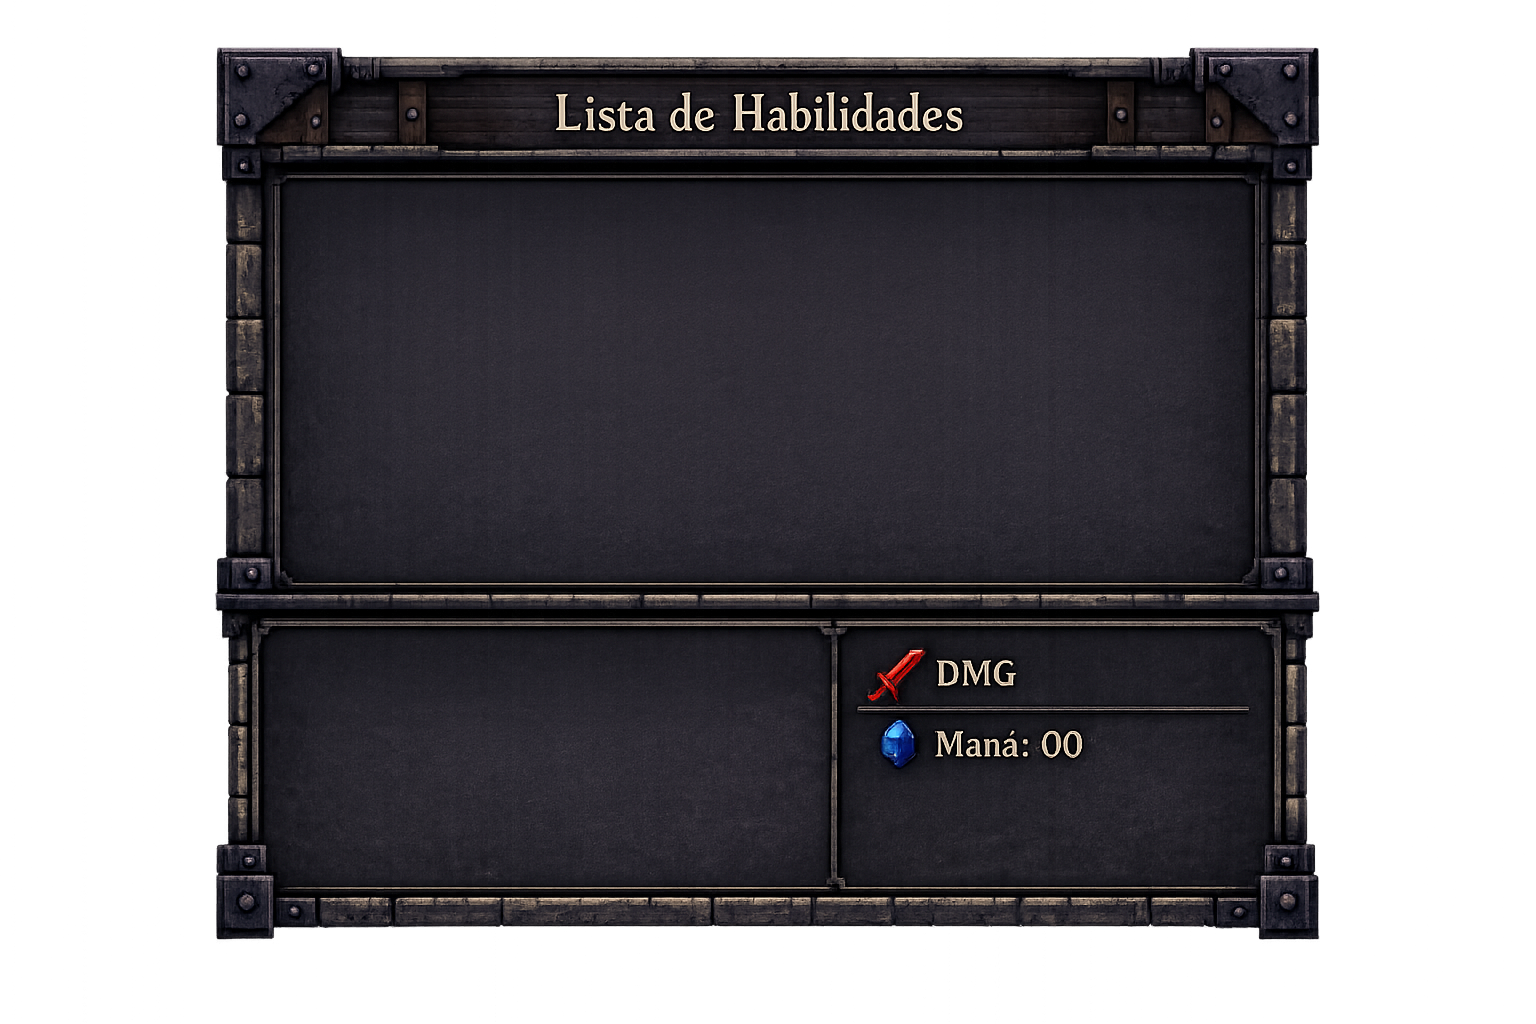
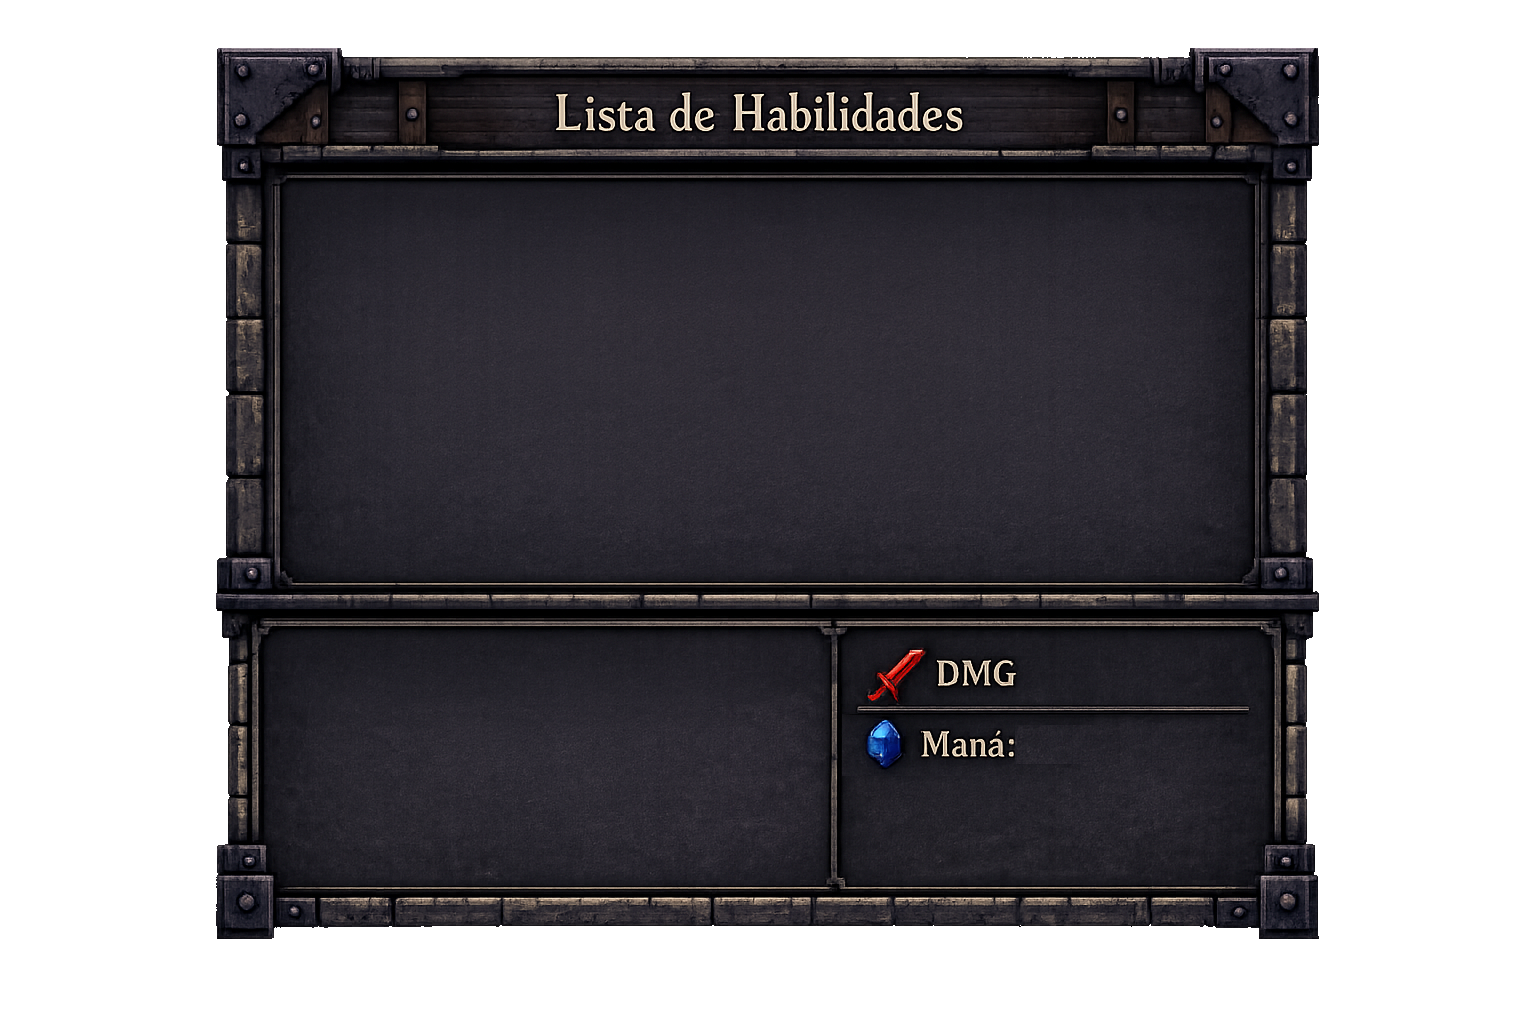
Combate
se agregó:

indicadores de vida y mana(heroe y enemigo), indicadores del daño y coste de mana de una habilidad.

En la Vista de xp obtenida se muestra el nivel superado

Changed region(s): [[0.5625, 0.6875, 0.7188, 0.75]]

diff --git a/core/src/main/java/com/mortaTower/Vista/CombateVista.java b/core/src/main/java/com/mortaTower/Vista/CombateVista.java
@@ -61,9 +61,13 @@ public class CombateVista {
     private Texture categoriasTex;
     private Texture habilidadTex;
     private Label lblDescripcion;
+    private Label lblDanio, lblMana;
+
+    private Label lblVidaHeroe, lblVidaEnemy;
+private Label  lblManaHeroe, lblManaEnemy;
 
     // Render
-    private BitmapFont font;
+    private BitmapFont font, fontStats;
     private ShapeRenderer sr;
 
     // Animaciones
@@ -120,11 +124,40 @@ public class CombateVista {
         font.getData().setScale(1.5f);
         font.setColor(Color.WHITE);
 
+        fontStats = new BitmapFont();
+        fontStats.getData().setScale(1.0f);
+        fontStats.setColor(Color.WHITE);
+
+        lblVidaHeroe = new Label("", new Label.LabelStyle(fontStats, Color.WHITE));
+        lblVidaHeroe.setAlignment(Align.center);
+        lblVidaHeroe.setPosition(105, 140);
+
+        lblManaHeroe = new Label("", new Label.LabelStyle(fontStats, Color.WHITE));
+        lblManaHeroe.setAlignment(Align.center);
+        lblManaHeroe.setPosition(105, 115);
+
+        lblVidaEnemy = new Label("", new Label.LabelStyle(fontStats, Color.WHITE));
+        lblVidaEnemy.setAlignment(Align.center);
+        lblVidaEnemy.setPosition(1190, 140);
+
+        lblManaEnemy = new Label("", new Label.LabelStyle(fontStats, Color.WHITE));
+        lblManaEnemy.setAlignment(Align.center);
+        lblManaEnemy.setPosition(1190, 115);
+        
+
         lblDescripcion = new Label("", new Label.LabelStyle(font, Color.YELLOW));
         lblDescripcion.setAlignment(Align.center);
         lblDescripcion.setPosition(WORLD_WIDTH / 2f - 150, WORLD_HEIGHT * 0.28f); //y
         lblDescripcion.setSize(150, 50);
         lblDescripcion.setWrap(true);
+
+        lblDanio = new Label("", new Label.LabelStyle(font, Color.RED));
+        lblDanio.setAlignment(Align.center);
+        lblDanio.setPosition(WORLD_WIDTH - 550, WORLD_HEIGHT * 0.35f);
+
+        lblMana = new Label("", new Label.LabelStyle(font, Color.BLUE));
+        lblMana.setAlignment(Align.center);
+        lblMana.setPosition(WORLD_WIDTH - 550, WORLD_HEIGHT * 0.31f);
 
         stage.addActor(imgFondoGeneral); 
         stage.addActor(btnPausa);
@@ -132,6 +165,8 @@ public class CombateVista {
         stage.addActor(stsEnemigo); 
         crearUIInventario();
         stage.addActor(lblDescripcion);
+        stage.addActor(lblDanio);
+        stage.addActor(lblMana);
         cargarAnimaciones();
     }
 
@@ -261,34 +296,46 @@ public class CombateVista {
 
     // BARRA DE VIDA/MANA
     public void dibujarInterfazHeroe(SpriteBatch batch, int vidaActual, int vidaMax, int manaActual, int manaMax) {
+
+        lblVidaHeroe.setText(vidaActual + " / " + vidaMax);
+        lblManaHeroe.setText(manaActual + " / " + manaMax);
+
         sr.setProjectionMatrix(batch.getProjectionMatrix());
         sr.begin(ShapeRenderer.ShapeType.Filled);
 
-        dibujarBarra(120, 132, vidaActual, vidaMax, Color.GREEN);
-        dibujarBarra(120, 106, manaActual, manaMax, Color.BLUE);
-        
+        stage.addActor(lblVidaHeroe);
+        dibujarBarra(140, 132, vidaActual, vidaMax, Color.GREEN);
+        stage.addActor(lblManaHeroe);
+        dibujarBarra(140, 106, manaActual, manaMax, Color.BLUE);
+
         sr.end();
     }
 
     public void dibujarInterfazEnemigo(SpriteBatch batch, int vidaActual, int vidaMax, int manaActual, int manaMax) {
+
+        lblVidaEnemy.setText(vidaActual + " / " + vidaMax);
+        lblManaEnemy.setText(manaActual + " / " + manaMax);
+
         sr.setProjectionMatrix(batch.getProjectionMatrix());
         sr.begin(ShapeRenderer.ShapeType.Filled);
 
-        dibujarBarra(977, 136, vidaActual, vidaMax, Color.RED);
-        dibujarBarra(977, 110, manaActual, manaMax, Color.BLUE);
+        stage.addActor(lblVidaEnemy);
+        dibujarBarra(977, 132, vidaActual, vidaMax, Color.RED);
+        stage.addActor(lblManaEnemy);
+        dibujarBarra(977, 106, manaActual, manaMax, Color.BLUE);
         
         sr.end();
     }
 
     private void dibujarBarra(float x, float y, int actual, int max, Color color) {
         
-        ancho = 200f;
+        ancho = 180f;
         float porcentaje = (float) actual / max;
 
         sr.setColor(Color.BLACK);
-        sr.rect(x, y, ancho, 15);
+        sr.rect(x, y, ancho, 18);
         sr.setColor(color);
-        sr.rect(x, y, ancho * porcentaje, 20);
+        sr.rect(x, y, ancho * porcentaje, 18);
     }
 
     public void dibujarSprite(SpriteBatch batch, Entidad.Estado estadoHeroe, float timeHeroe, String nombreHeroe, 
@@ -434,7 +481,8 @@ public class CombateVista {
         return 1.0f;
     }
 
-    public void setTextoDescripcion(String texto) {
-        lblDescripcion.setText(texto);
-    }
+    public void setTextoDescripcion(String texto) {lblDescripcion.setText(texto);}
+    public void setTextoDanio(String danio) { lblDanio.setText(danio);}
+    public void setTextoMana(String mana) {lblMana.setText(mana);}
+
 }

diff --git a/core/src/main/java/com/mortaTower/Screens/CombateScreen.java b/core/src/main/java/com/mortaTower/Screens/CombateScreen.java
@@ -33,6 +33,7 @@ public class CombateScreen extends Screens {
     private boolean danioAplicado;
     private int nivel;
 
+    private String nombreHeroe;
     private float contador = 0;
     private float tiempoPausa;
     private boolean proximoTurnoJugador;
@@ -48,8 +49,9 @@ public class CombateScreen extends Screens {
     private boolean heroeAturdido = false;
 
     //constructor
-    public CombateScreen(Main game, int nivel) {
+    public CombateScreen(Main game, String nombreHeroe, int nivel) {
         super(game);
+        this.nombreHeroe = nombreHeroe;
         this.nivel = nivel;
         Heroe heroe = game.getPartidaActual().getHeroe();
         modelo = new CombateModelo(heroe, nivel);
@@ -67,6 +69,9 @@ public class CombateScreen extends Screens {
         String[] nombresHabilidades = modelo.getNombreHabilidadesActuales();
         String[] tiposHabilidades = modelo.getTipoHabilidadesActuales();
         String[] descripciones = modelo.getDescripcionesHabilidadesActuales();
+        int[] danio = modelo.getDaniosActuales();
+        int[] mana = modelo.getConsumosActuales();
+
         vista.cargarInventarioHabilidades(nombresHabilidades, tiposHabilidades);
 
         vista.getBtnPausa().addListener(new ClickListener() {
@@ -95,14 +100,14 @@ public class CombateScreen extends Screens {
             });
         });
 
-        listenersHabilidades(descripciones); 
+        listenersHabilidades(descripciones, danio, mana); 
     }
 
     private void setInput(Stage stageActivo) {
         Gdx.input.setInputProcessor(stageActivo);
     }
 
-    private void listenersHabilidades(String[] descripcion) {
+    private void listenersHabilidades(String[] descripcion, int[] danio, int[] mana) {
         int cantidad = vista.getCantidadHabilidades();
 
         for (int i = 0; i < cantidad; i++) {
@@ -114,11 +119,15 @@ public class CombateScreen extends Screens {
                 @Override
                 public void enter(InputEvent event, float x, float y, int pointer, com.badlogic.gdx.scenes.scene2d.Actor fromActor) {
                     vista.setTextoDescripcion(descripcion[index]);
+                    vista.setTextoDanio(Integer.toString(danio[index]));
+                    vista.setTextoMana(Integer.toString(mana[index]));
                 }
 
                 @Override
                 public void exit(InputEvent event, float x, float y, int pointer, com.badlogic.gdx.scenes.scene2d.Actor toActor) {
                     vista.setTextoDescripcion(""); // Limpiamos el texto
+                    vista.setTextoDanio("");
+                    vista.setTextoMana("");
                 }
                 
                 @Override
@@ -144,7 +153,7 @@ public class CombateScreen extends Screens {
         vista.dibujarSprite(spriteBatch, 
             modelo.getHeroe().getEstadoActual(), 
             modelo.getHeroe().getStatetime(), 
-            modelo.getHeroe().getNombre(),
+            nombreHeroe,
             modelo.getEnemigo().getEstadoActual(), 
             modelo.getEnemigo().getStatetime(), 
             modelo.getEnemigo().getNombre());

diff --git a/core/src/main/java/com/mortaTower/Controlador/RecompensaControlador.java b/core/src/main/java/com/mortaTower/Controlador/RecompensaControlador.java
@@ -47,8 +47,6 @@ public class RecompensaControlador  extends Screens{
         combateModelo = new CombateModelo(heroe, nivel);
 
         habilidad = modeloRecompensa.getHabilidad();
-       // habilidadActual = combateModelo.getHabilidadesPorEntidad();
-        //tipo = modeloRecompensa.getipo();
 
         cargarAssets();
 
@@ -148,11 +146,14 @@ public class RecompensaControlador  extends Screens{
                     @Override
                     public void run() {
                         
-                        try {
-                            Partida partidaActual = game.getPartidaActual();
+                        Partida partidaActual = game.getPartidaActual();
+                        String nombreHeroe = partidaActual.getNombrePartida();
+                        
+                        try {   
                             partidaActual.setPisoActual(nivel + 1);
                             PartidaDao partidaDao = new PartidaDao();
                             partidaDao.guardarProgreso(partidaActual);
+                            
 
                             System.out.println("Partida guardada exitosamente. Avanzando al piso " + (nivel + 1));
                         } catch (SQLException e) {
@@ -160,7 +161,7 @@ public class RecompensaControlador  extends Screens{
                             System.err.println("Error al intentar guardar la partida.");
                         }
                         
-                        game.setScreen(new TransicionScreen(game, RecompensaControlador.this, new CombateScreen(game, nivel + 1)));
+                        game.setScreen(new TransicionScreen(game, RecompensaControlador.this, new CombateScreen(game, nombreHeroe, nivel + 1)));
                     }
                 }, 5f);
                 break;

diff --git a/core/src/main/java/com/mortaTower/Screens/CargarScreen.java b/core/src/main/java/com/mortaTower/Screens/CargarScreen.java
@@ -125,10 +125,11 @@ public class CargarScreen extends Screens {
         try {
             PartidaDao partidaDao = new PartidaDao();
             Partida partida = partidaDao.cargarPartida(idPartida);
+            String nombreHeroe = partida.getNombrePartida();
 
             if (partida != null) {
                 game.setPartida(partida);
-                game.setScreen(new TransicionScreen(game, this, new CombateScreen(game, partida.getPisoActual())));
+                game.setScreen(new TransicionScreen(game, this, new CombateScreen(game, nombreHeroe, partida.getPisoActual())));
             }
 
         } catch (Exception e) {
@@ -153,13 +154,13 @@ public class CargarScreen extends Screens {
         }
     }
 
-    public void update(float delta) {
+    /*public void update(float delta) {
         if (Gdx.input.isKeyJustPressed(com.badlogic.gdx.Input.Keys.ESCAPE)) {
             game.audio.play(1);
             game.setScreen(new TransicionScreen(game, this, new MenuScreen(game)));
 
         }
-    }
+    }*/
 
     @Override
     public void render(float delta) {

diff --git a/core/src/main/java/com/mortaTower/Controlador/PausaControlador.java b/core/src/main/java/com/mortaTower/Controlador/PausaControlador.java
@@ -5,6 +5,7 @@ import com.badlogic.gdx.scenes.scene2d.InputEvent;
 import com.badlogic.gdx.scenes.scene2d.Stage;
 import com.badlogic.gdx.scenes.scene2d.utils.ClickListener;
 import com.mortaTower.Main;
+import com.mortaTower.Modelo.Partida;
 import com.mortaTower.Screens.CombateScreen;
 import com.mortaTower.Screens.MenuScreen;
 import com.mortaTower.Screens.Screens;
@@ -60,8 +61,12 @@ public class PausaControlador extends Screens{
 
                 game.audio.stop(7);
 
+                 
+                Partida partidaActual = game.getPartidaActual();
+                String nombreHeroe = partidaActual.getNombrePartida();
+
                 // Reiniciar pantalla de combate
-                CombateScreen nuevoCombate = new CombateScreen(game, nivel);
+                CombateScreen nuevoCombate = new CombateScreen(game, nombreHeroe, nivel);
 
                 // Cambiar pantalla con transición
                 game.setScreen(new TransicionScreen(game, PausaControlador.this, nuevoCombate));

diff --git a/core/src/main/java/com/mortaTower/Modelo/CombateModelo.java b/core/src/main/java/com/mortaTower/Modelo/CombateModelo.java
@@ -112,6 +112,32 @@ public class CombateModelo {
         return nombres;
     }
 
+    public int[] getDaniosActuales(){
+        int[] danio = new int[4];
+        for (int i = 0; i < 4; i++) {
+            if (heroe.getHabilidades()[i] != null) {
+                danio[i] = heroe.getHabilidades()[i].getValorBase();
+            } else {
+                danio[i] = 0;
+            }
+        }
+        return danio;
+    }
+
+    public int[] getConsumosActuales(){
+        int[] mana = new int[4];
+
+        for (int i = 0; i < 4; i++) {
+            if (heroe.getHabilidades()[i] != null) {
+                mana[i] = heroe.getHabilidades()[i].getCostoMana();
+            } else {
+                mana[i] = 0;
+            }
+        }
+        return mana;
+
+    }
+
     public String[] getTipoHabilidadesActuales() {
         String[] tipos = new String[4];
         for (int i = 0; i < 4; i++) {

diff --git a/core/src/main/java/com/mortaTower/Screens/SeleccionScreen.java b/core/src/main/java/com/mortaTower/Screens/SeleccionScreen.java
@@ -79,7 +79,7 @@ public class SeleccionScreen extends Screens {
                 try {
                     Partida partida = confirmarYCrearPartida(nombrePartida, idHereoSelc);
                     game.setPartida(partida);
-                    game.setScreen(new TransicionScreen(game, SeleccionScreen.this, new CombateScreen(game, 1)));
+                    game.setScreen(new TransicionScreen(game, SeleccionScreen.this, new CombateScreen(game, nombrePartida, 1)));
                 } catch (SQLException e) {
                     e.printStackTrace();
                     vista.mostrarSinEspacio();

diff --git a/core/src/main/java/com/mortaTower/Vista/RecompensasVista.java b/core/src/main/java/com/mortaTower/Vista/RecompensasVista.java
@@ -189,7 +189,7 @@ public class RecompensasVista {
         tablaExp.setFillParent(true);
         tablaExp.center();
 
-        Label lblTitulo = new Label("¡PISO COMPLETADO!", styleOro);
+        Label lblTitulo = new Label("Nivel " +  nivel + " de 5 superado", styleOro);
         lblTitulo.setFontScale(2f);
         
         Label lblNivel = new Label("Nivel del Héroe: " + nivel, styleBlanco);

diff --git a/core/src/main/java/com/mortaTower/Vista/PausaVista.java b/core/src/main/java/com/mortaTower/Vista/PausaVista.java
@@ -1,7 +1,6 @@
 package com.mortaTower.Vista;
 
 import com.badlogic.gdx.graphics.Texture;
-import com.badlogic.gdx.graphics.g2d.SpriteBatch;
 import com.badlogic.gdx.graphics.g2d.TextureRegion;
 import com.badlogic.gdx.scenes.scene2d.Stage;
 import com.badlogic.gdx.scenes.scene2d.ui.Image;
